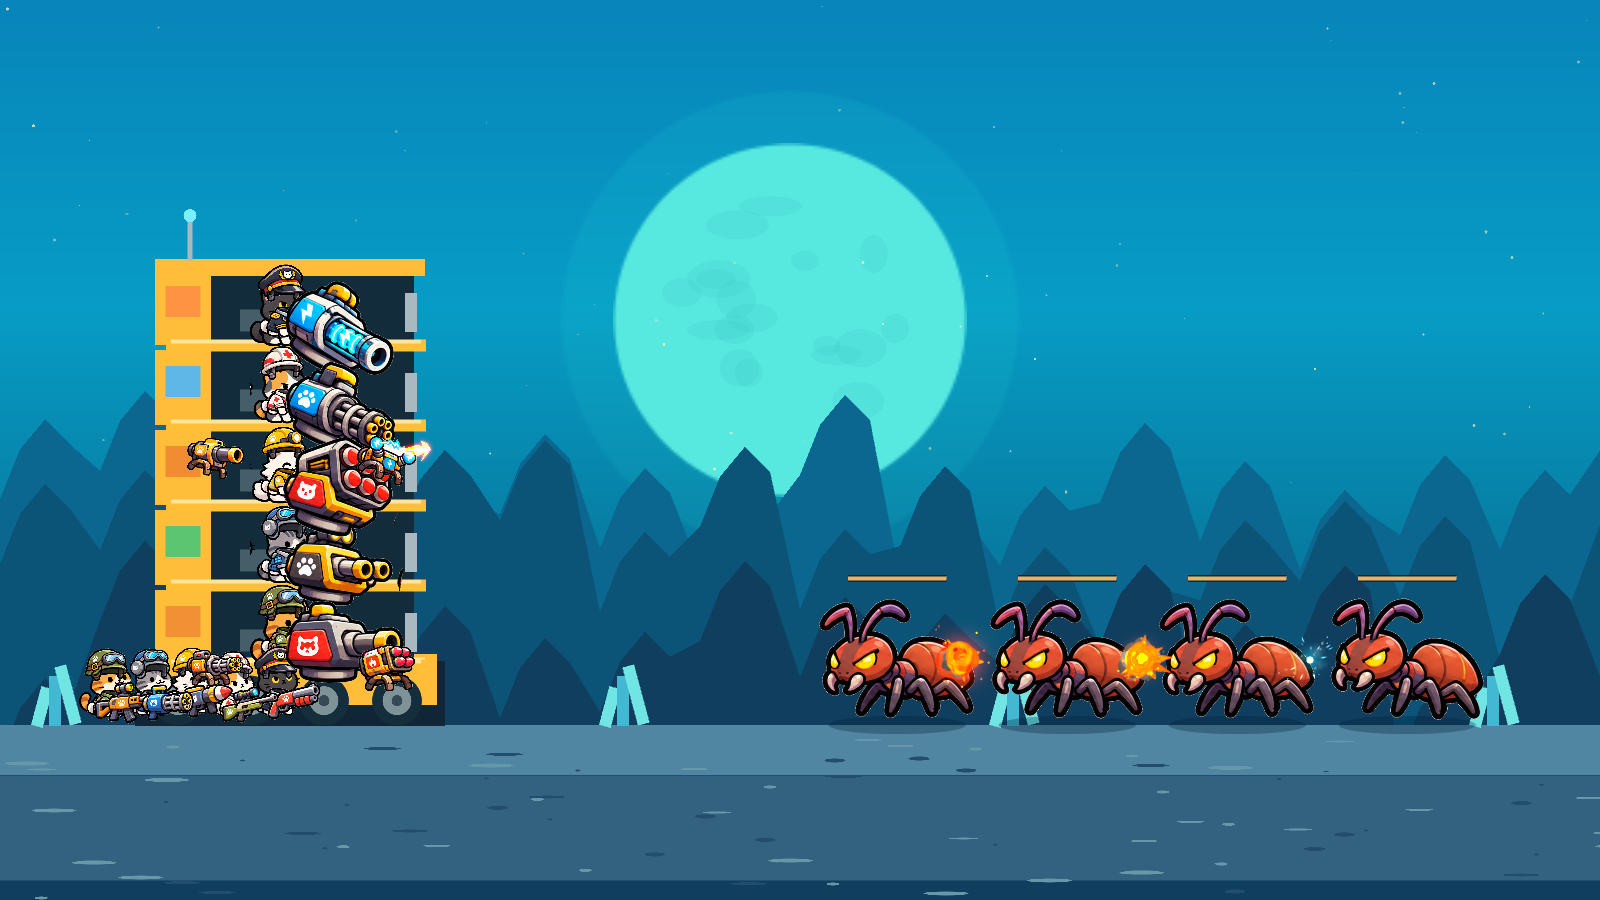
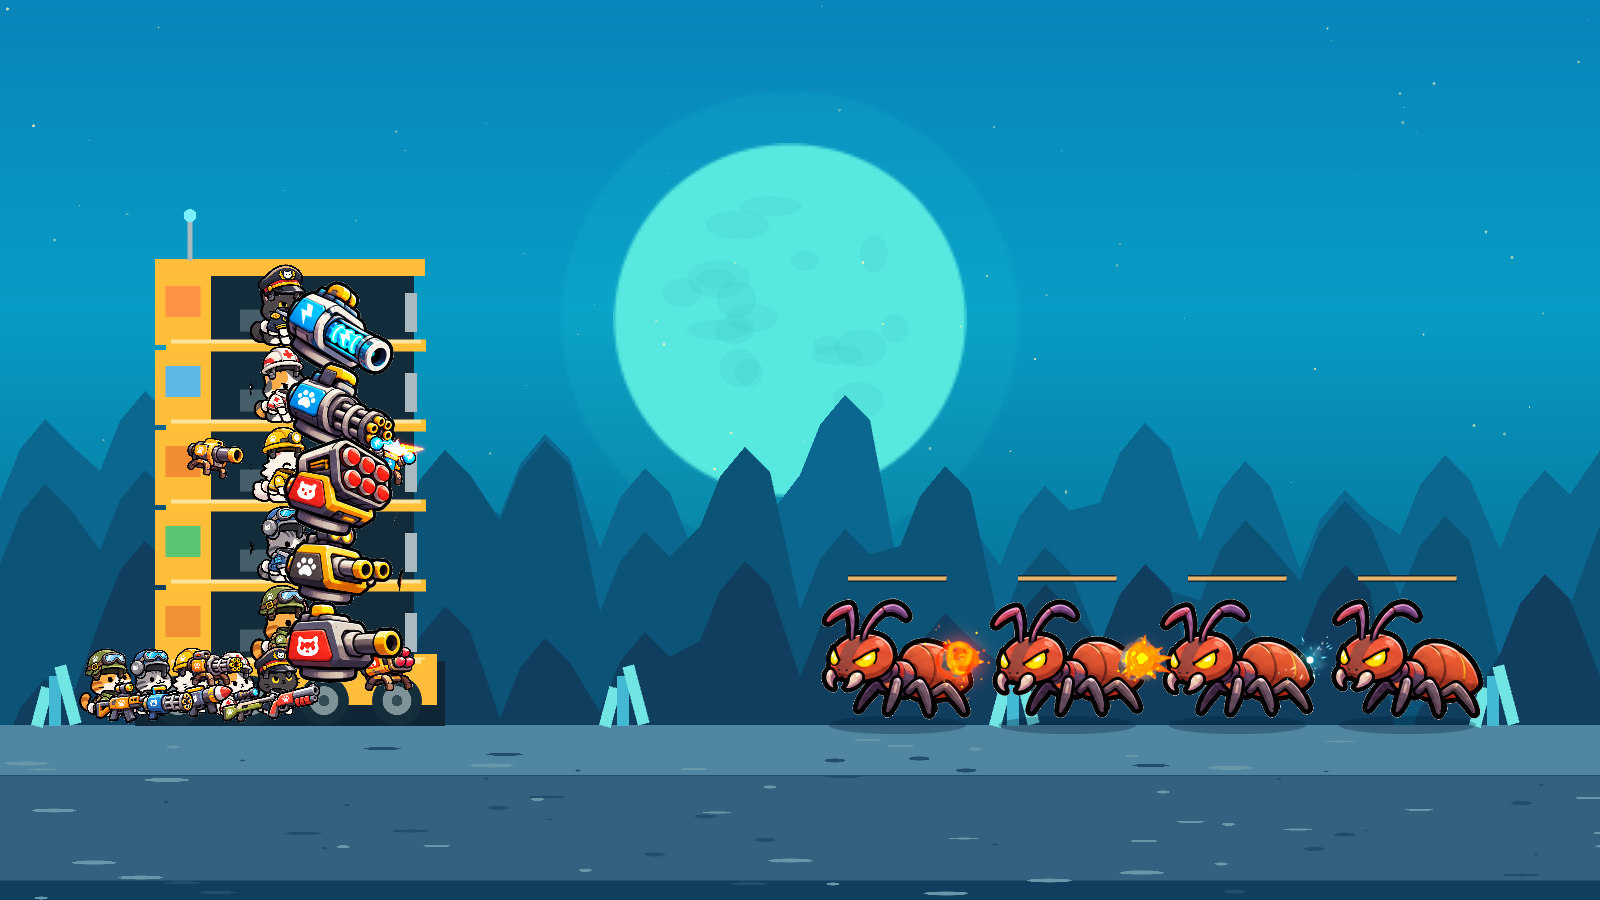
Fix muzzle VFX orientation and update preview captures

diff --git a/Sources/CatTanks/Assets/CatTanks/Editor/CombatVfxSetup.cs b/Sources/CatTanks/Assets/CatTanks/Editor/CombatVfxSetup.cs
@@ -42,6 +42,13 @@ namespace CatTanks.Editor
             foreach(var audio in wrapper.GetComponentsInChildren<AudioSource>(true))UnityEngine.Object.DestroyImmediate(audio);
             foreach(var light in wrapper.GetComponentsInChildren<Light>(true))UnityEngine.Object.DestroyImmediate(light);
             var systems=wrapper.GetComponentsInChildren<ParticleSystem>(true);
+            // The muzzle sheet points left. Keep it in the battle's XY plane and
+            // let the wrapper's firing angle rotate the particle artwork too.
+            if(key=="muzzle")
+            {
+                child.transform.localRotation=Quaternion.Euler(0,0,180);
+                foreach(var renderer in child.GetComponentsInChildren<ParticleSystemRenderer>(true))renderer.alignment=ParticleSystemRenderSpace.Local;
+            }
             foreach(var ps in systems)
             {
                 var main=ps.main;main.loop=false;main.playOnAwake=false;main.stopAction=ParticleSystemStopAction.None;main.scalingMode=ParticleSystemScalingMode.Hierarchy;main.simulationSpace=ParticleSystemSimulationSpace.Local;main.maxParticles=Mathf.Min(main.maxParticles,256);
